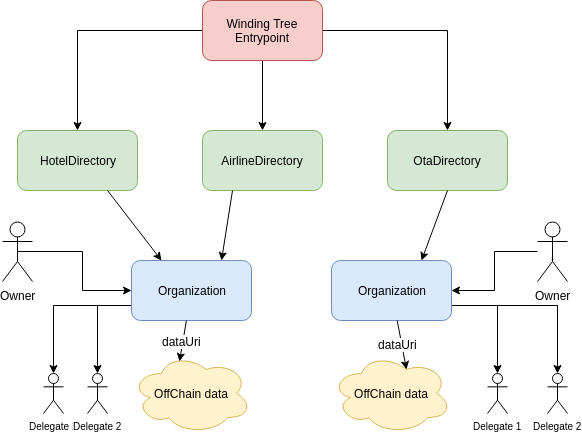
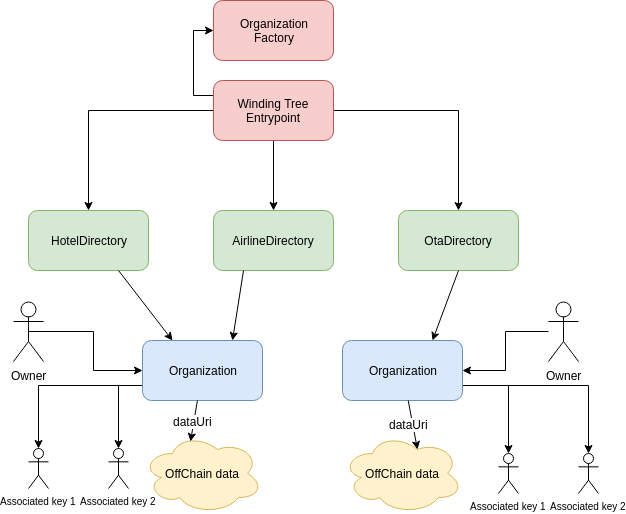
docs: Updates the scheme

diff --git a/README.md b/README.md
@@ -8,7 +8,7 @@ Smart contracts of the Winding Tree platform.
 
 ## Documentation
 
-![](https://raw.githubusercontent.com/windingtree/wt-contracts/69fd8a5f9dcc08056b3c4e496e4eb8bb62c46896/assets/contracts-schema.png)
+![](https://raw.githubusercontent.com/windingtree/wt-contracts/8fddef99ef09d099f3fd3721680f54129fd742d1/assets/contracts-schema.png)
 
 Generated documentation is in the [`docs`](https://github.com/windingtree/wt-contracts/tree/master/docs)
 folder and can be generated by running `npm run soldoc`.
